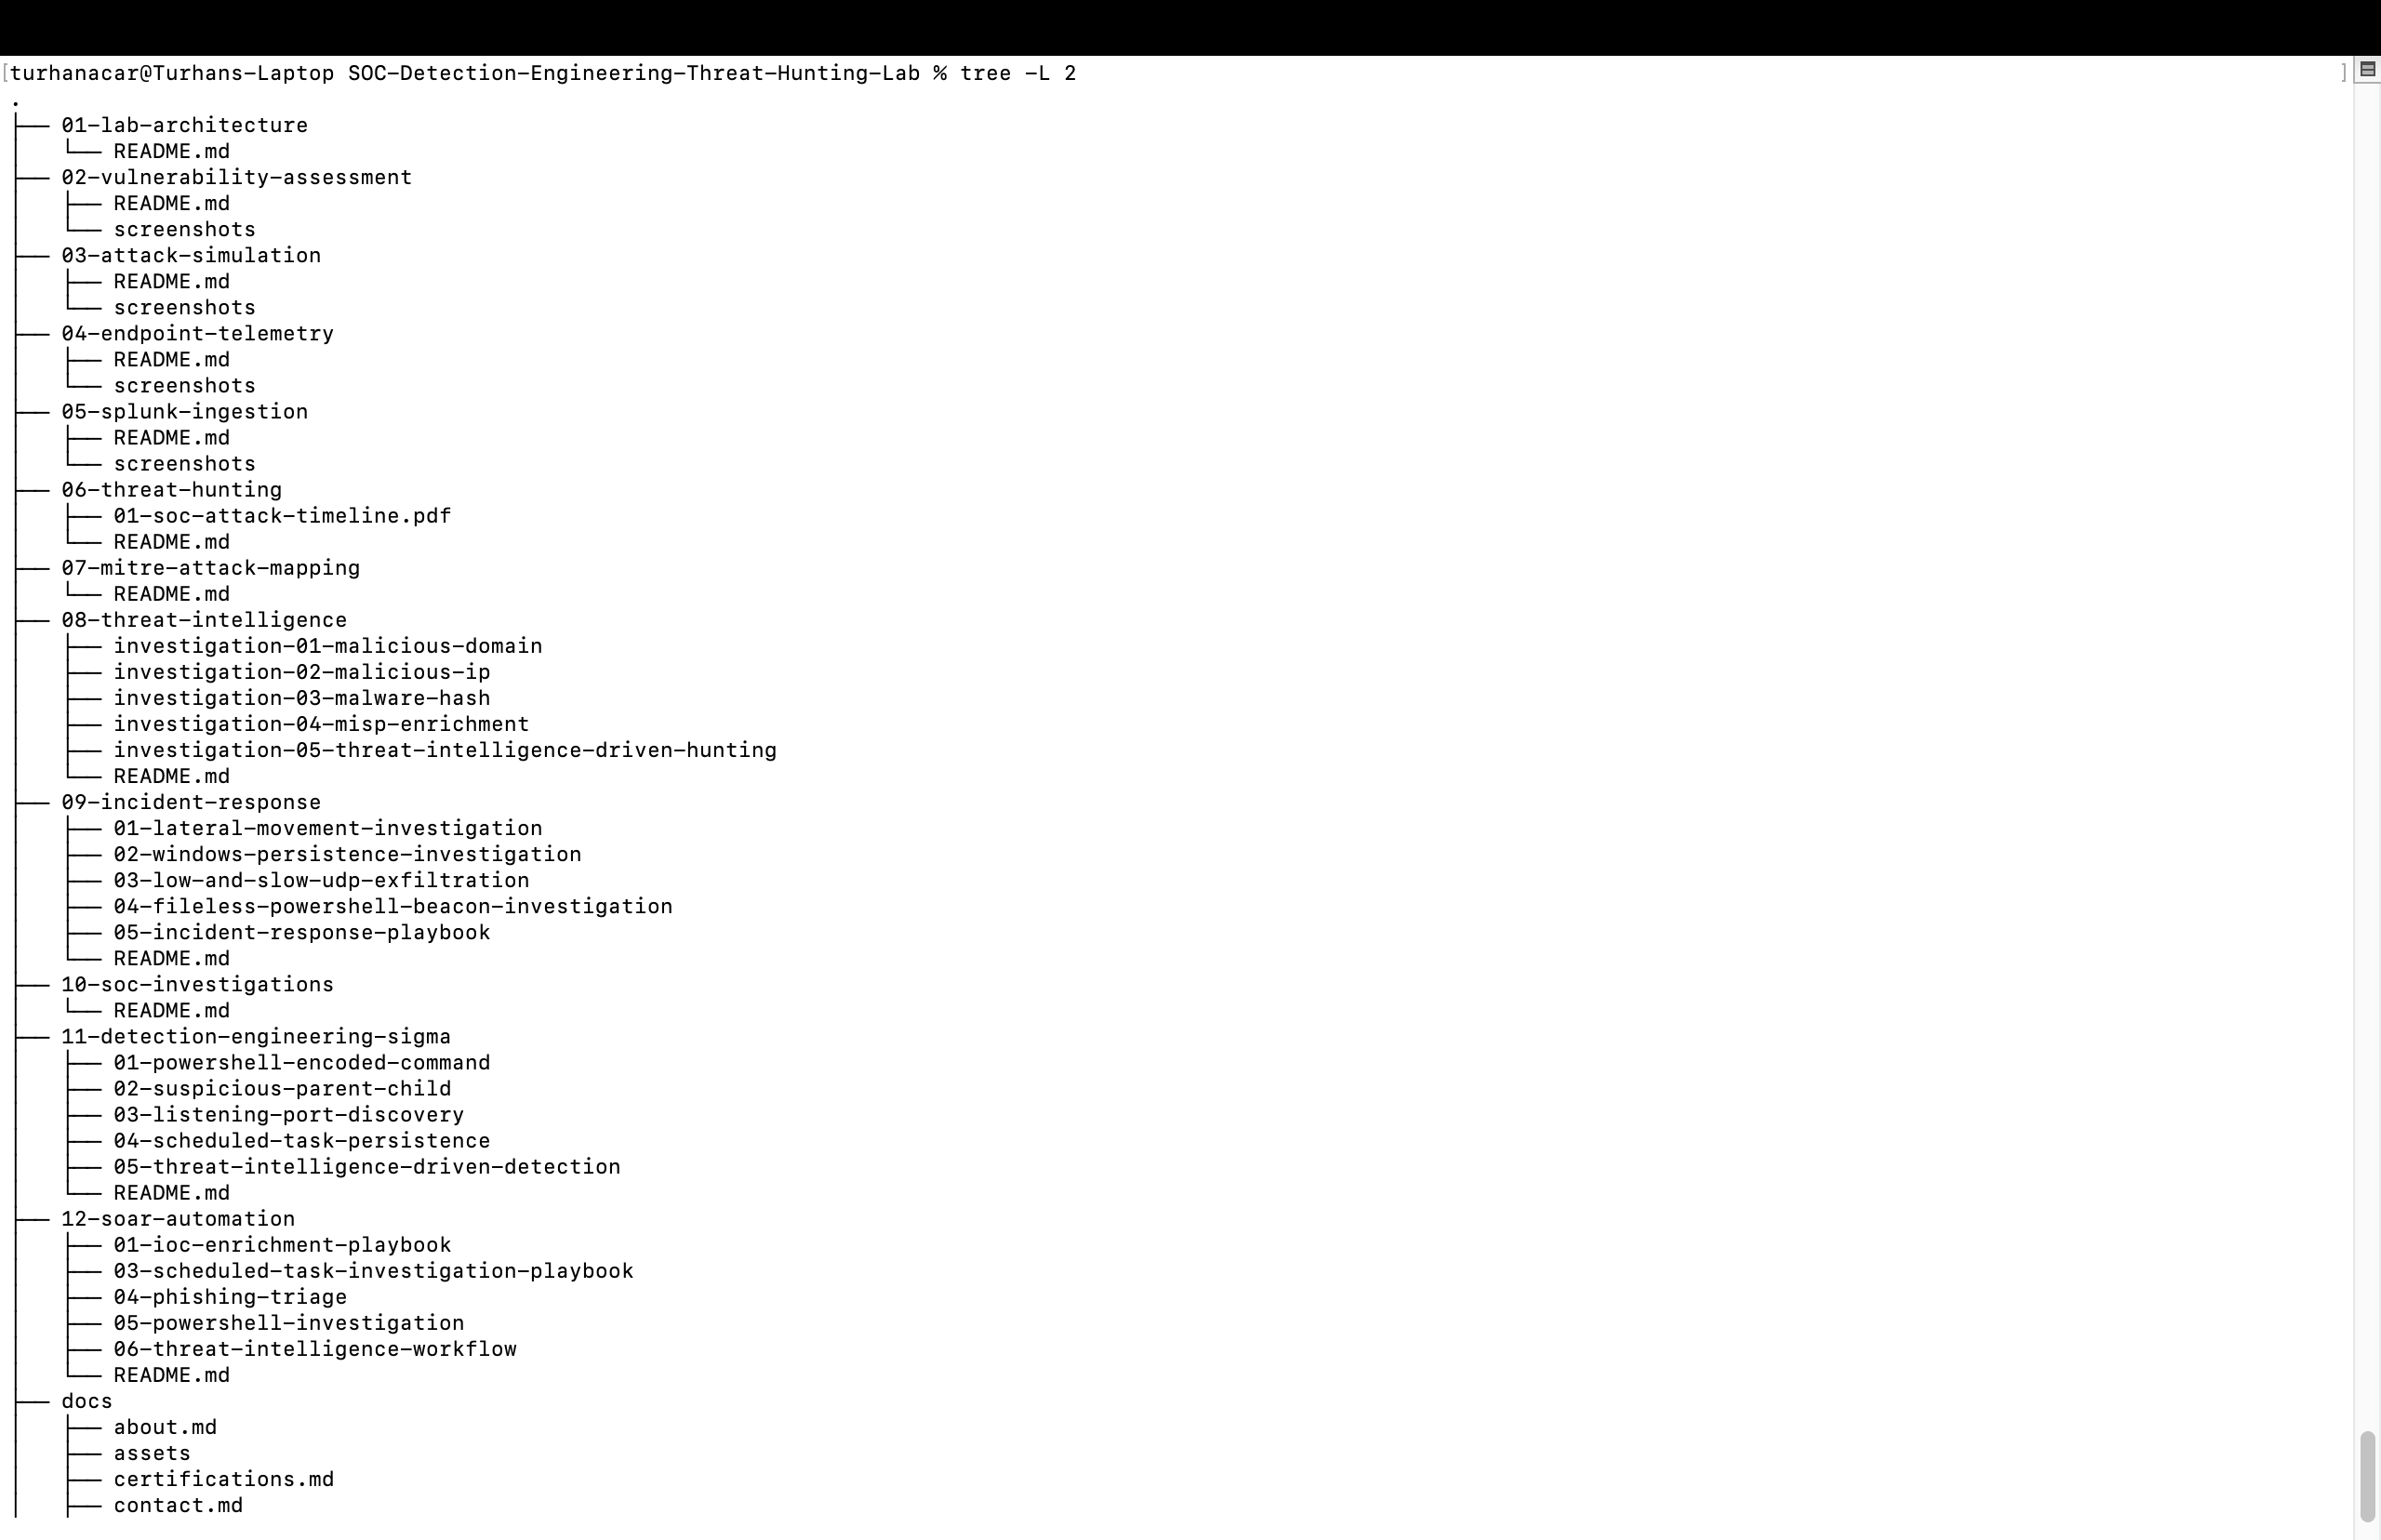
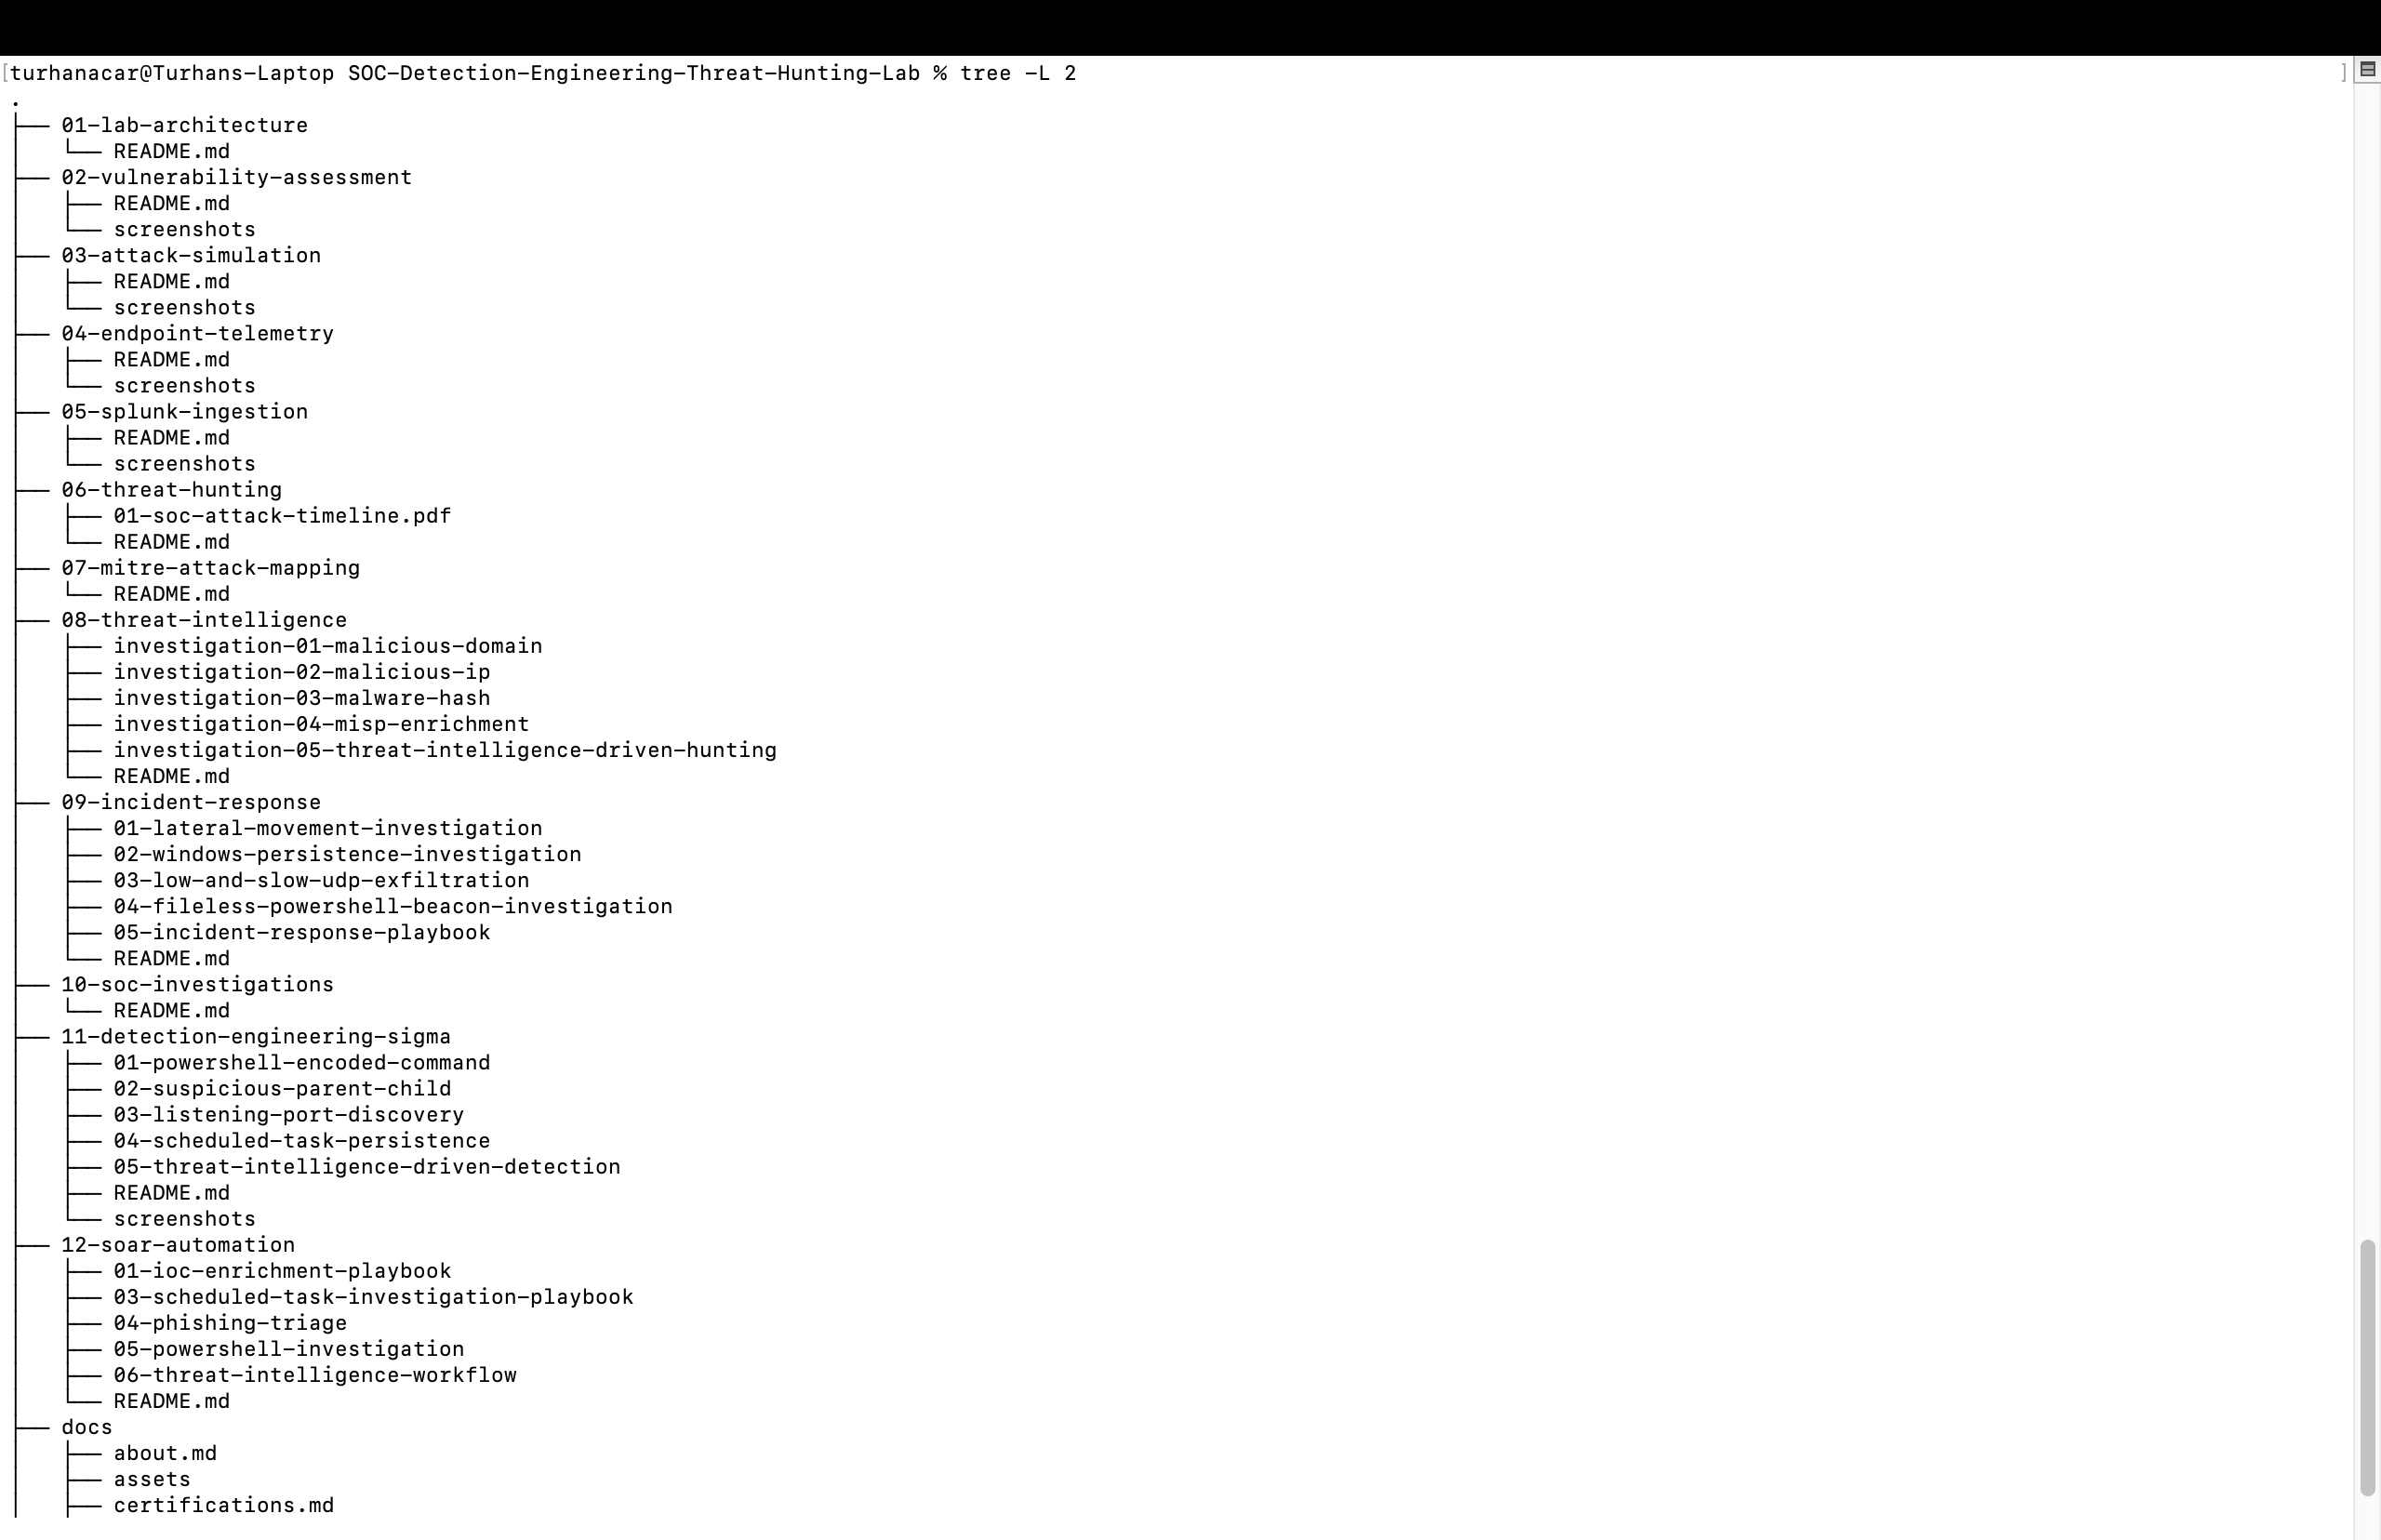
Fix image paths and embedded evidence

Changed region(s): [[0.0312, 0.7699, 0.25, 0.9855], [0.9688, 0.8007, 1.0, 0.9239]]

diff --git a/08-threat-intelligence/investigation-03-malware-hash/findings.md b/08-threat-intelligence/investigation-03-malware-hash/findings.md
@@ -42,7 +42,7 @@ High
 
 ### Evidence
 
-![Finding 01 - Process Creation](01-hdoor-process-creation.png)
+![Finding 01 - Process Creation](screenshots/01-hdoor-process-creation.png)
 
 
 ### Finding 02 – Internal Network Enumeration Activity
@@ -72,7 +72,7 @@ Assessment: Suspicious
 
 ### Evidence
 
-![Finding 02 - Network Connection](02-hdoor-network-flow)
+![Finding 02 - Network Connection](screenshots/02-hdoor-network-flow.png)
 
 
 
@@ -83,7 +83,7 @@ Assessment: Suspicious
 
 ### Evidence
 
-![Finding 03](03-hdoor-enumeration-command.png)
+![Finding 03](screenshots/03-hdoor-enumeration-command.png)
 
 ### Observation
 

diff --git a/08-threat-intelligence/investigation-04-misp-enrichment/findings.md b/08-threat-intelligence/investigation-04-misp-enrichment/findings.md
@@ -4,7 +4,7 @@
 
 ### Evidence
 
-![Finding 01](01-misp-feed-enabled.png)
+![Finding 01](screenshots/01-misp-feed-enabled.png)
 
 ### Observation
 
@@ -27,7 +27,7 @@ Feed synchronization populated the MISP instance with external threat intelligen
 
 ### Evidence
 
-![Finding 02](02-misp-hash-search.png)
+![Finding 02](screenshots/02-misp-hash-search.png)
 
 ### Observation
 